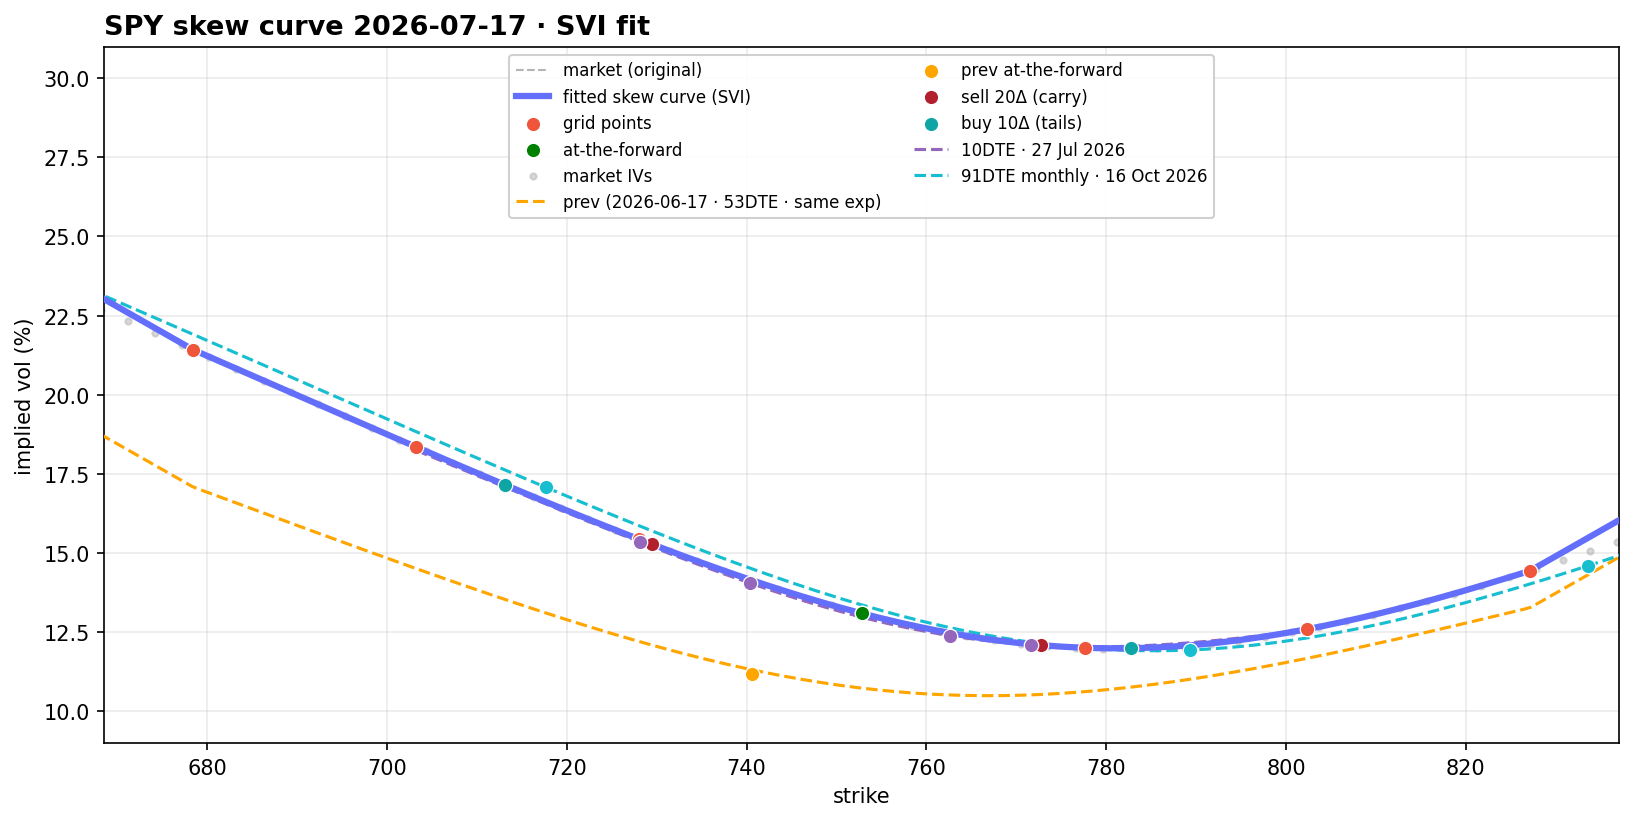
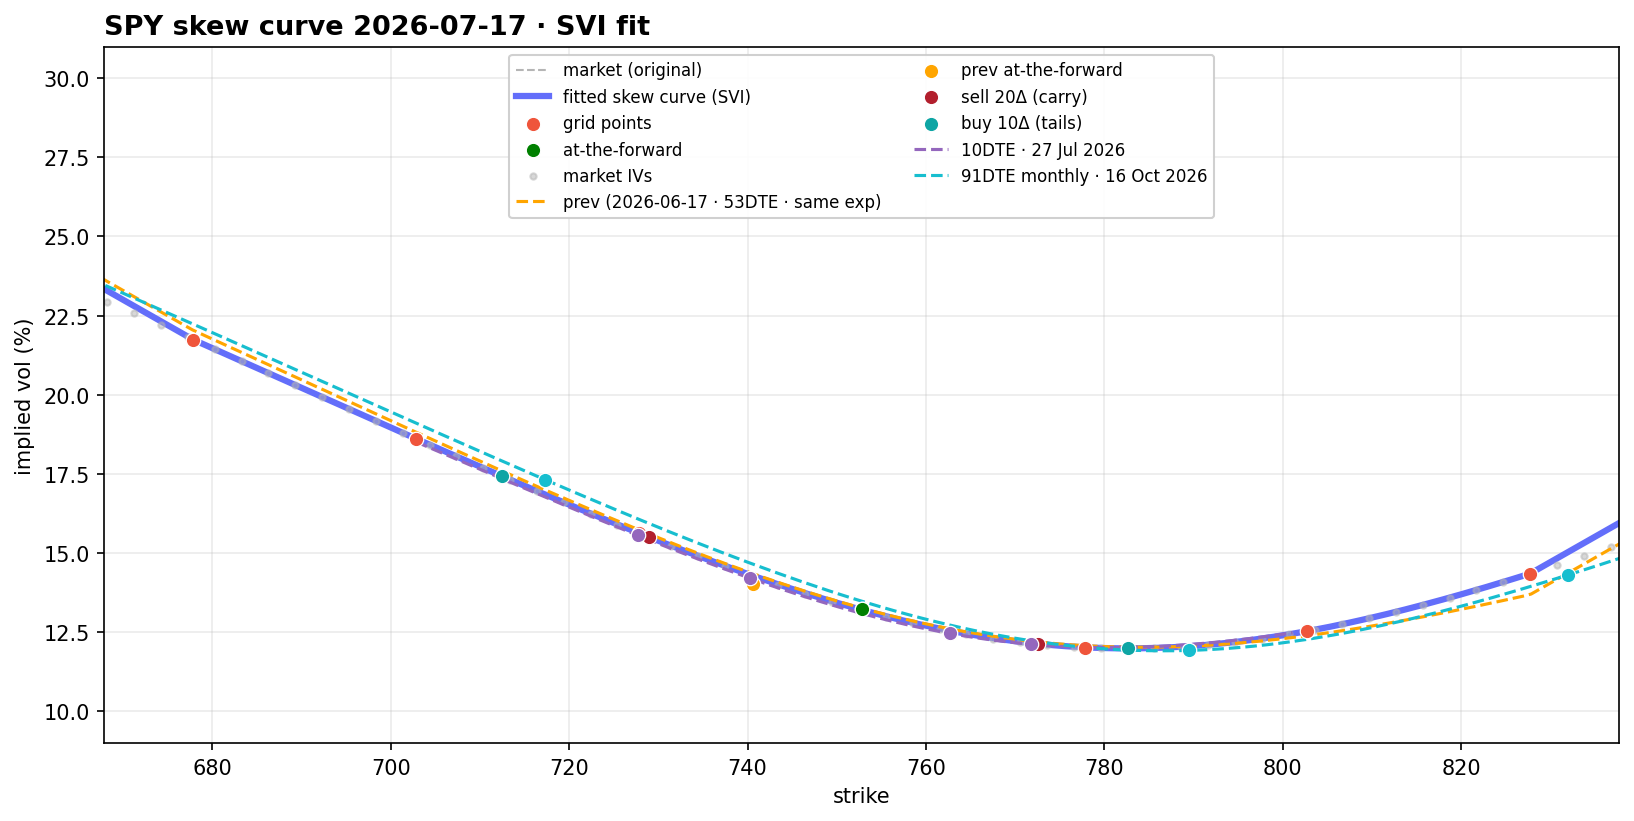
demo: reproduce a real SPY run (SVI smile); add Vol-history (IV vs realized) section

diff --git a/skewlab/pipeline/demo.py b/skewlab/pipeline/demo.py
@@ -180,7 +180,13 @@ class DemoCVT(_DemoBase):
                     lvl = float(np.clip(ro / rn, 0.7, 1.4))
             except Exception:
                 pass
-            iv = np.sqrt(np.maximum(_svi_w(k, snap["svi"]) * lvl * lvl, 1e-8) / _SNAP_TREF)
+            svi = snap["svi"]
+            back = max((self.today - obs).days, 0)             # an EARLIER obs had a steeper put
+            lvl = 1.0 + 0.06 * (lvl - 1.0)                     # skew that has since flattened. Damp
+            if back > 0:                                        # the level move so a same-expiry
+                f = min(back / 20.0, 1.0)                       # overlay reads as a modest level +
+                svi = dict(svi, rho=svi["rho"] - 0.16 * f)      # SKEW change (crosses zero), not a
+            iv = np.sqrt(np.maximum(_svi_w(k, svi) * lvl * lvl, 1e-8) / _SNAP_TREF)  # level shift.
         else:
             # generic put-skewed smile with a smooth minimum near the forward
             atf = max(w.rv_on(obs, lookback=max(int(round(dte * 5 / 7)), 2)) * 1.08, 0.06)

diff --git a/README.md b/README.md
@@ -16,6 +16,11 @@ to a composite realized-vol estimate, and renders it all in an interactive Dash 
 *Skew panel from the synthetic offline demo (`python skewlab.py`, no credentials): a raw-SVI
 fit with a steep put wing and ATF ≈ 13%, plus previous-day and term-structure overlays.*
 
+![SPY strike vol changes](docs/strike_vol_change_demo.png)
+
+*Per-strike implied-vol change vs the previous same-expiry observation (red = vol fell, green =
+vol rose) — here a skew flattening: downside/ATM vol came in while the upside firmed.*
+
 ![SPY implied risk-neutral density (Breeden–Litzenberger)](docs/implied_density_demo.png)
 
 *Risk-neutral density from the fitted SVI smile via Breeden–Litzenberger, vs a flat log-normal